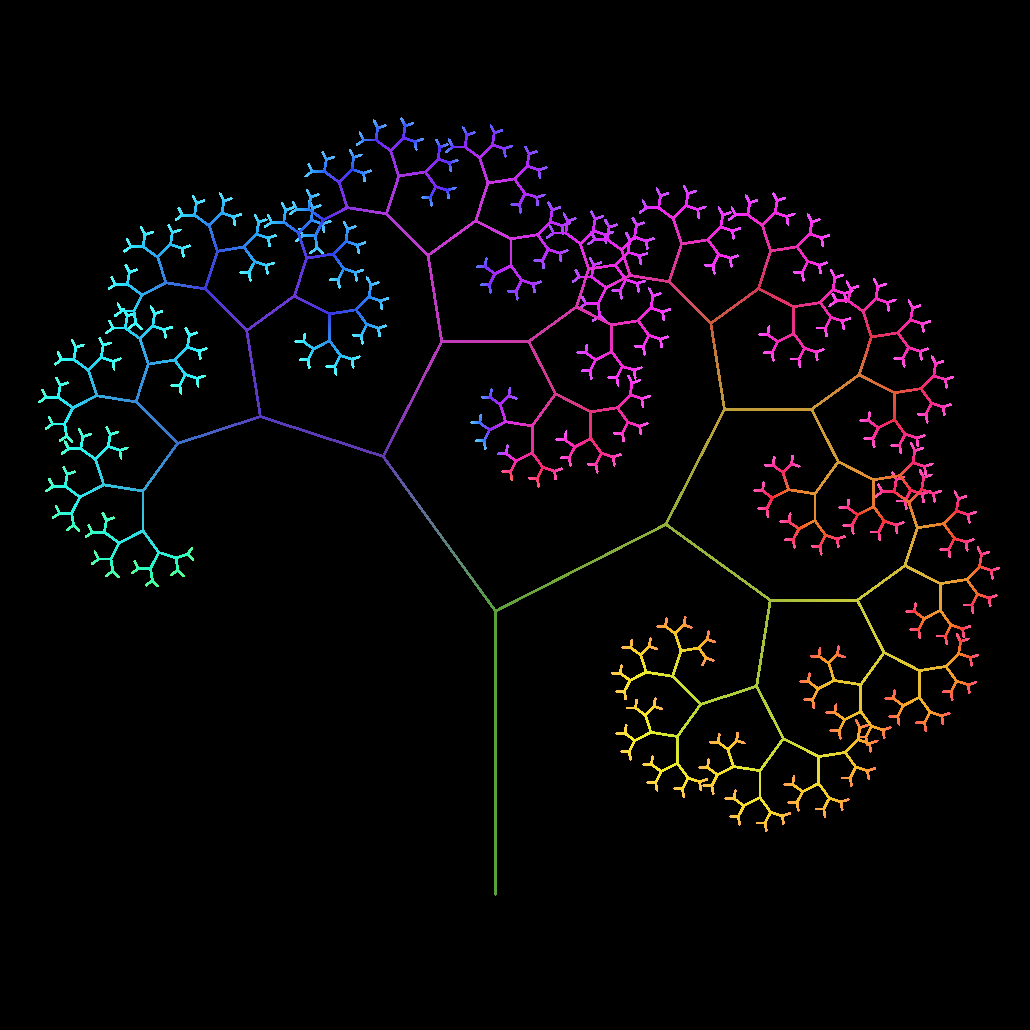
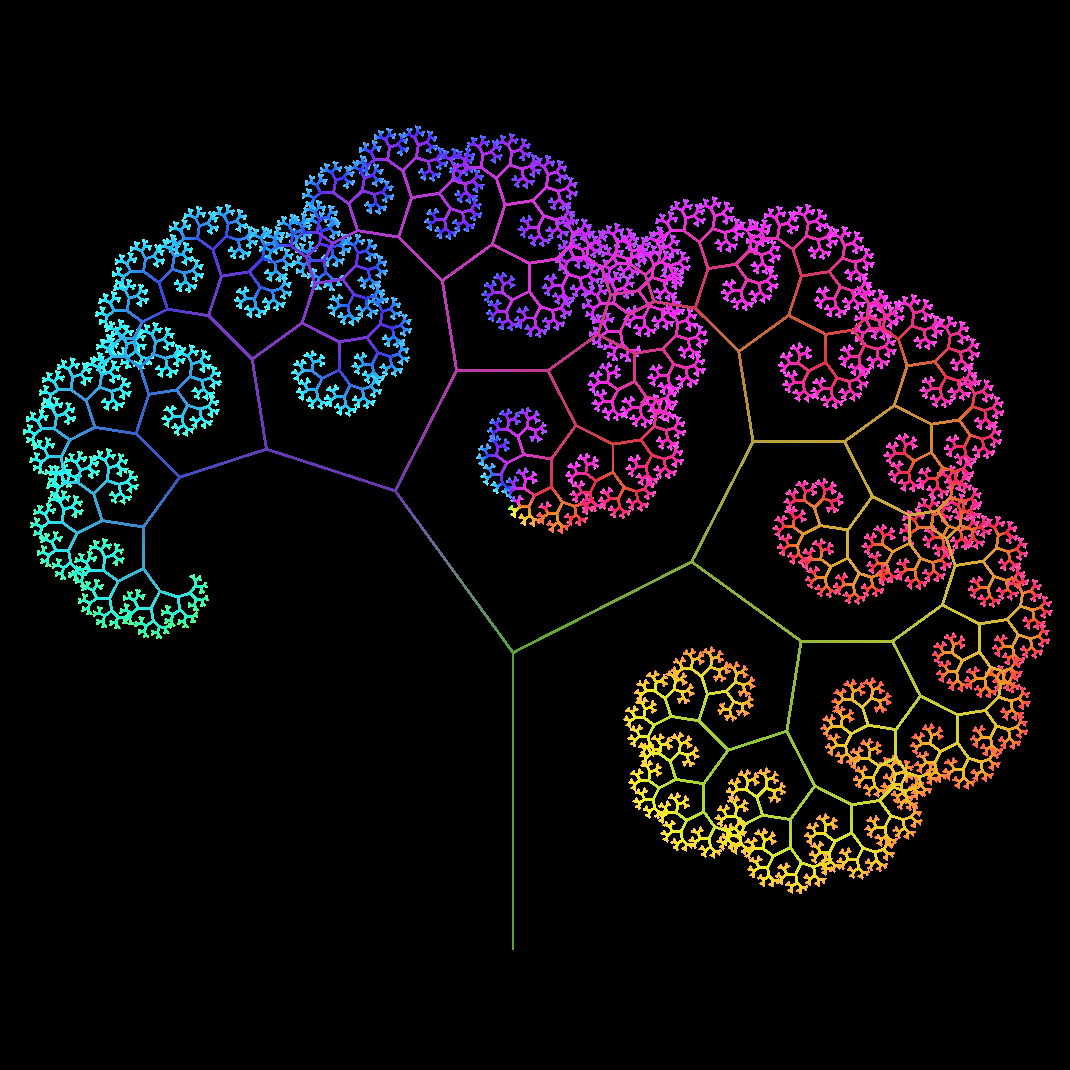
doc: improve screenshots

diff --git a/README.md b/README.md
@@ -3,19 +3,19 @@
 
 <table>
   <tr>
-    <td><img src=".github/assets/koch_snowflake.png"/></th>
-    <td><img src=".github/assets/sierpinski_triangle.png"/></th>
     <td><img src=".github/assets/canopy.png"/></th>
+    <td><img src=".github/assets/sierpinski_triangle.png"/></th>
+    <td><img src=".github/assets/koch_snowflake.png"/></th>
   </tr>
   <tr>
-    <td><a href="https://en.wikipedia.org/wiki/Koch_snowflake">Koch snowflake</a></td>
-    <td><a href="https://en.wikipedia.org/wiki/Sierpi%C5%84ski_triangle">Sierpinski triangle</a></td>
     <td><a href="https://en.wikipedia.org/wiki/Fractal_canopy">Canopy</a></td>
+    <td><a href="https://en.wikipedia.org/wiki/Sierpi%C5%84ski_triangle">Sierpinski triangle</a></td>
+    <td><a href="https://en.wikipedia.org/wiki/Koch_snowflake">Koch snowflake</a></td>
   </tr>
   <tr>
-    <td>5th iteration</td>
-    <td>5th iteration</td>
-    <td>10th iteration, 0.2π left angle, 0.35π right angle</td>
+    <td>13th iteration, 0.2π left angle, 0.35π right angle</td>
+    <td>7th iteration</td>
+    <td>6th iteration</td>
   </tr>
 </table>
 
